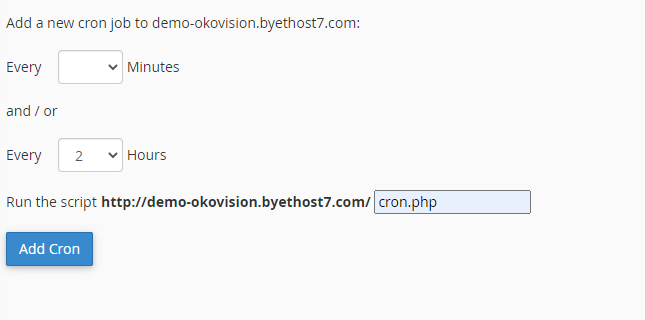
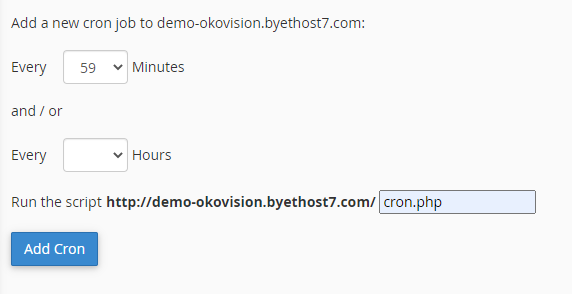
change cron

diff --git a/md/free-hosting.md b/md/free-hosting.md
@@ -116,7 +116,7 @@ Cliquez sur `Alter Cron`
 
 ![CPANEL Cron](/wiki/freehosting/160-altercron.png)
 
-Mettre toutes les 2 heures (en dessous cela ne sert a rien car la chaudiere met à jours le fichier csv que toutes les 2 heures)
+Mettre toutes les 59 minutes
 Indiquez le fichier `cron.php`
 
 ![CPANEL Cron](/wiki/freehosting/170-cron-conf.png)
